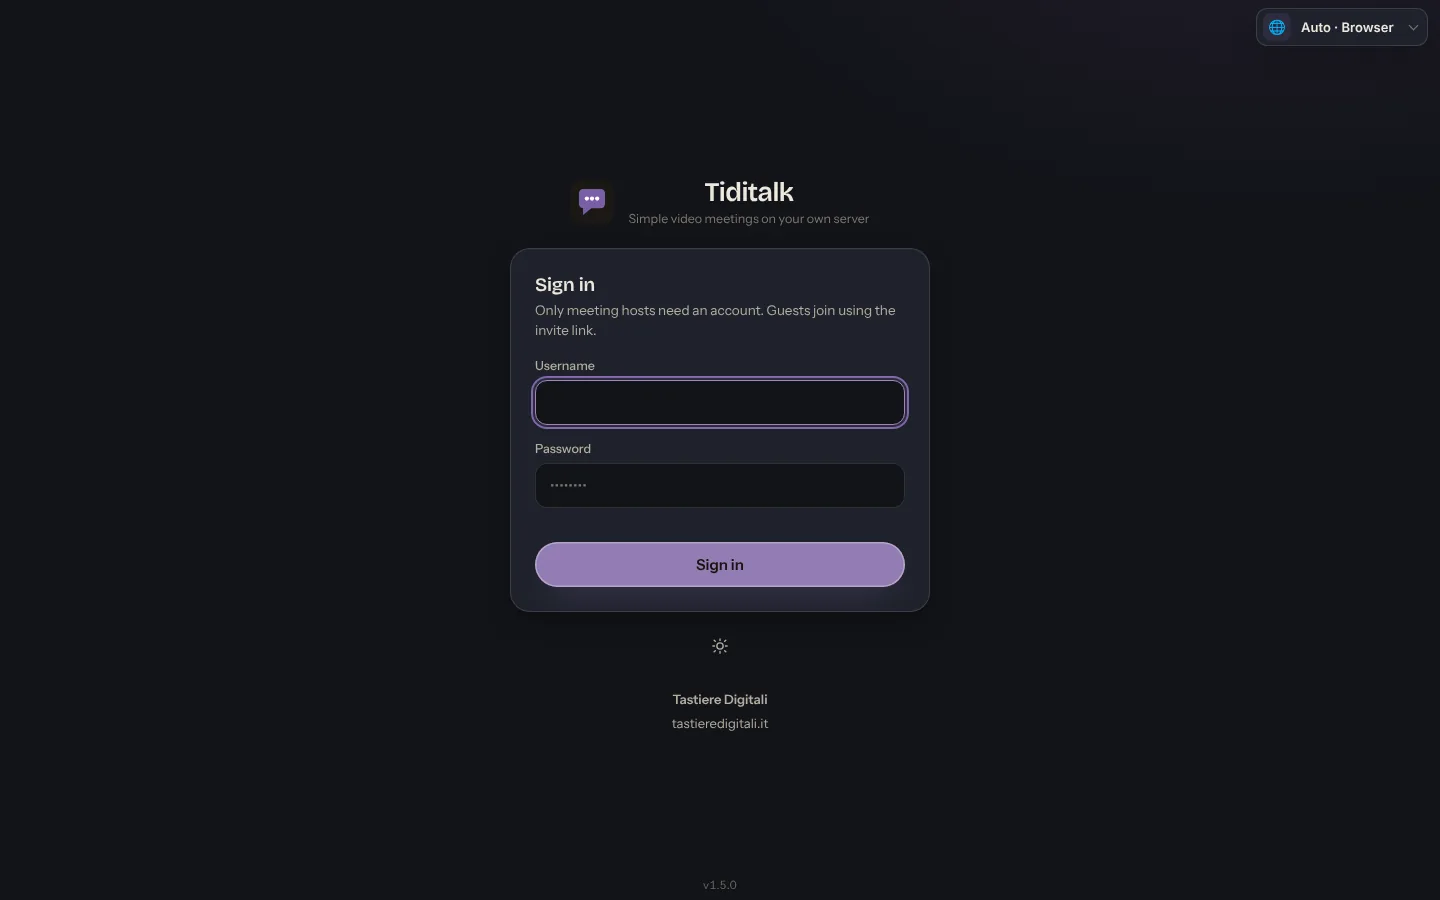
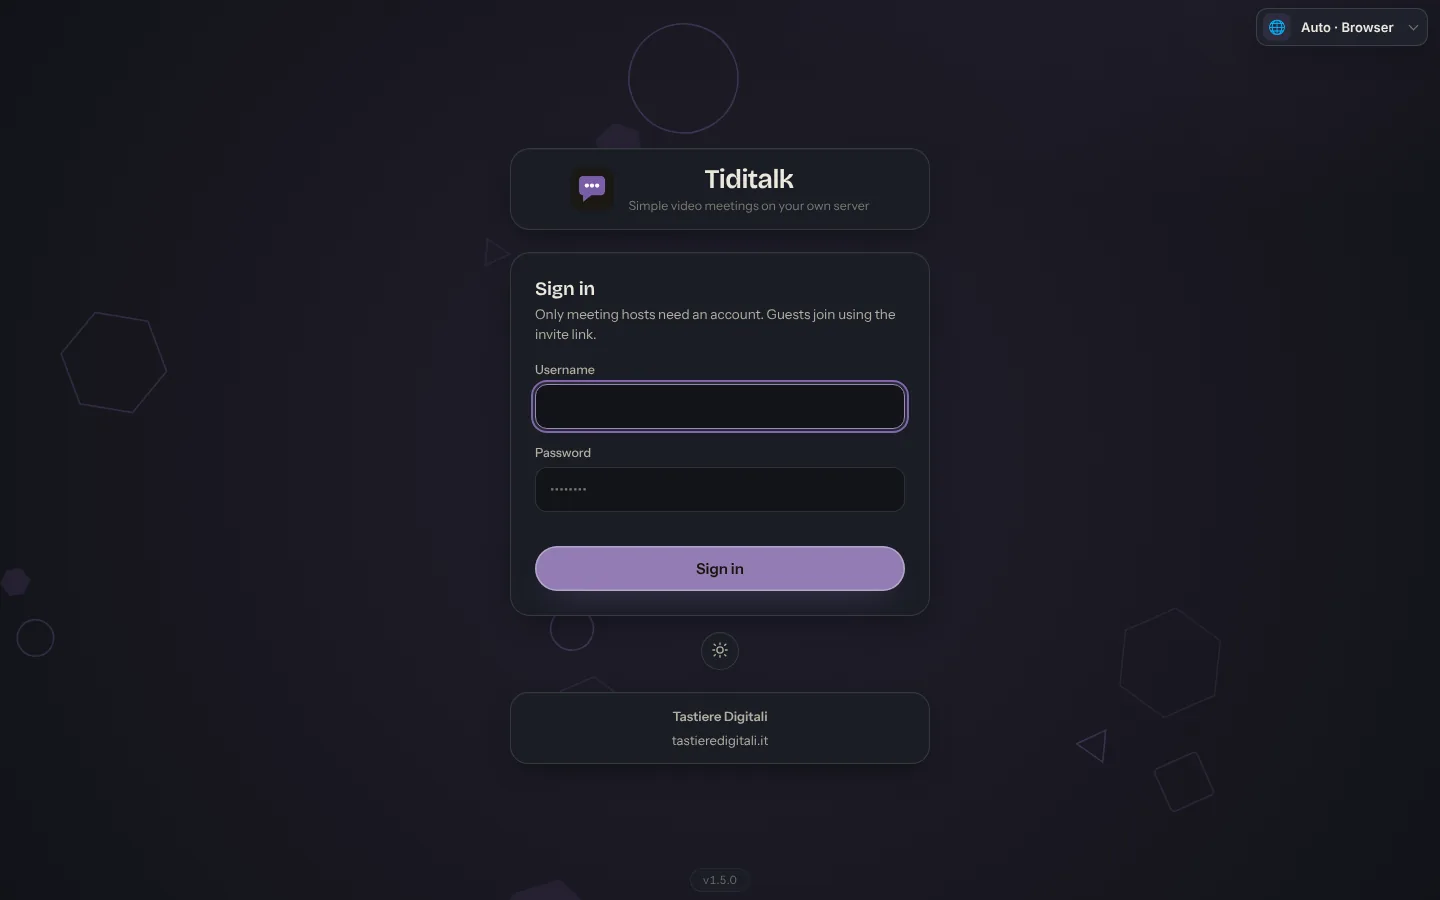
Add files via upload

diff --git a/CHANGELOG.md b/CHANGELOG.md
@@ -23,6 +23,17 @@
   microphone and camera "on entry" switches. On the right a full **device
   check**: camera preview, live microphone level, microphone / camera /
   speakers selectors and a speakers test. Greeting by time of day and date
+- **Animated background of geometric shapes on every page** (replaces the
+  accent beam), tinted with the brand colour and different on each page:
+  rising with mouse parallax on the home page, slowly orbiting around the
+  card on login and invite pages, flowing right-to-left on Schedule, almost
+  still on Settings, falling like confetti on the end-of-call page, sparse
+  behind the pre-join screen and pulsing around the guest waiting screen.
+  It pauses when the tab is hidden and stops once you are in the call
+- Texts never sit on the moving shapes: page titles, settings menu, login
+  logo and company info, the home columns, the pre-join panel, the guest
+  waiting screen and the version pill are on solid cards; the top bar is
+  solid too
 - **Registered users go straight into the meeting**: devices checked on the
   home page are used as they are and the pre-join screen is skipped (guests
   still get it; if a device fails the pre-join appears as before)
@@ -40,6 +51,19 @@
 - Guest screen sharing and "everyone can draw" are now per-room rules
   (initialised from Settings → Meetings, changeable by hosts during the call)
 - Brand name no longer wraps letter by letter in the header on narrow phones
+- Leaving the meeting: immediate "leaving…" screen on click, and hosts go
+  straight to the home page (before: room → login page → home, two page
+  loads with no feedback, so it felt like the button needed a second click)
+
+### Fixed
+- Waiting room: admitting a guest needed a second click — the guest stayed in
+  the hosts' list until their browser had fully joined, and the hosts were
+  not notified when they did. Now the row disappears on the first click
+- Call settings window: the content was cut off at the bottom instead of
+  scrolling (Room and Recording sections on smaller screens)
+- Call settings → Appearance: proper icons for Grid / Speaker
+- Name under the avatar duplicated the tile label (overlapping in the side
+  strip); the "powered by" bar no longer shows a dark band in the light theme
 
 ## 1.4.0
 
